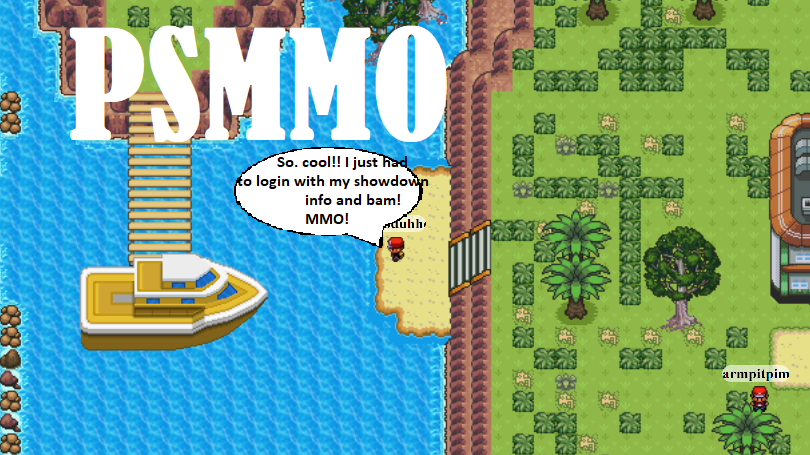
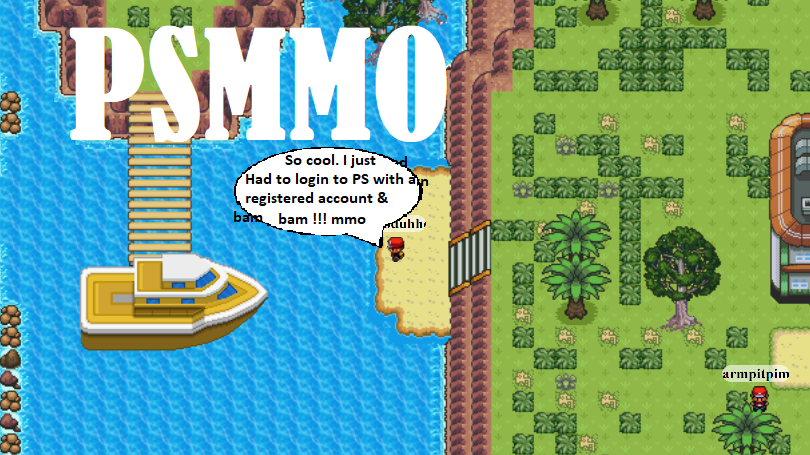
change login servers

Changed region(s): [[0.2778, 0.3385, 0.5247, 0.4923]]

diff --git a/main.js b/main.js
@@ -44,9 +44,7 @@ vars.init = function() {
 	vars.loadMap(vars.mapName);
 	vars.resize();
 	
-	var server = 'elloworld.ddns.net';
-	if (window.location.host === "localhost") server = 'localhost';
-	var sock = new SockJS("http://" + server + ':8000/showdown/');
+	var sock = new SockJS("http://" + vars.server + ':8000/showdown/');
 	sock.onopen = function() {console.log('open');};
 	sock.onmessage = function(event) {
 		//console.log = function() {};
@@ -1071,30 +1069,6 @@ vars.send = function (data, room) {
 	this.socket.send(data);
 	console.log('\t\t' + data);
 };
-vars.login = function(name, password) {
-	postProxy("./proxy.php", {
-		act: 'login',
-		name: name,
-		pass: password,
-		challengekeyid: vars.challengekeyid,
-		challenge: vars.challenge
-	}, function(data) {
-		if (data.charAt(0) == "]") {
-			data = data.substr(1);
-		}
-		data = JSON.parse(data);
-		if (data.curuser.loggedin) {
-			vars.username = name;
-			$("#loginform").fadeOut();
-			vars.send('/trn ' + name + ',0,' + data.assertion);
-			setTimeout(function() {
-				vars.send('/join lobby'); //REMOVE THIS WHEN U STOP CARING ABOUT LOBBY USER COUNT
-			}, 2000);
-		} else {
-			alerty("Info is wrong or you're not registered.");
-		}
-	}, 'text');
-};
 vars.acceptChallenge = function(username, tier) {
 	if (BattleFormats[tier] && BattleFormats[tier].team == "preset") {
 		//random you don't need a team
@@ -1241,6 +1215,17 @@ vars.receive = function(data) {
 
 	switch (parts[0]) {
 		/* mmo events */
+		case 'setName':
+			vars.username = parts[1];
+			$("#loginform").fadeOut(500, function() {
+				alerty("You are now logged in.");
+			});
+			$("#loginFrame").remove();
+			clearInterval(connectingPlaceholderAnimation);
+			setTimeout(function() {
+				vars.send('/join lobby');
+			}, 2000);
+			break;
 		case 'newPlayer':
 			vars.newPlayer(parts[1]);
 			break;
@@ -1488,18 +1473,6 @@ function toId(text) {
 	if (typeof text === 'number') text = ''+text;
 	if (typeof text !== 'string') return toId(text && text.id);
 	return text.toLowerCase().replace(/[^a-z0-9]+/g, '');
-}
-function postProxy(a, b, c) {
-	var datastring = "?post=";
-	for (var i in b) {
-		datastring += escape(i) + ":" + escape(b[i]) + "|";
-	}
-	$.get(a + datastring, c);
-}
-function getProxy(ab, c) {
-	var splint = ab.split('?');
-	var datastring = splint[1].split("=").join(":").split("&").join("|");
-	$.get(splint[0] + "?post=" + datastring, c);
 }
 function toUserid(text) {
 	text = text || '';

diff --git a/index.html b/index.html
@@ -40,10 +40,24 @@
 		<script src="./psjs/client-battle.js"></script>
 		<script src="./psjs/client-battle-tooltips.js"></script>
 		<script src="./vars.js"></script>
-		<script src="./funks.js"></script>
+		<script src="./main.js"></script>
 		<style id="battleZoom">.ps-room-opaque {}</style>
+	</head>
+	<body>
 		<script>
+			//login			
+			document.body.innerHTML += '<iframe id="loginFrame" src="https://' + toId(vars.serverName) + '.psim.us/psmmo" style="display: none;"></iframe>';
 			$(function() {
+				$("#loginFrame").load(function() {
+					var self = this;
+					setTimeout(function() {
+						if ($(self).length) {
+							$(self).attr('src', 'http://google.com');
+							$(self).attr('src', 'http://' + toId(vars.serverName) + '.psim.us/psmmo');
+						}
+					}, 10000);
+				});
+				
 				if (!Tools.prefs('mute')) var opacity = 1; else var opacity = 0.5;
 				$('#aud').css('opacity', opacity);
 				vars.init();
@@ -66,15 +80,27 @@
 						el.attr("placeholder", newholder);	
 					}, 500);
 				} else invisitypePlaceholderAnimation = null;
-			})
+				
+				//connecting animation
+				connectingPlaceholderAnimation = setInterval(function() {
+					var el = $("#connectingAnimation");
+					var holder = el.html().substr(10);
+					var newholder = "Connecting";
+					if (holder === "...") {
+						newholder += ".";
+					} else if (holder === "..") {
+						newholder += "...";
+					} else if (holder === ".") {
+						newholder += "..";
+					}
+					el.html(newholder);
+				}, 500);
+			});
 		</script>
-	</head>
-	<body>
 		<div id="loginform" style="position: absolute;top: 0;left: 0;margin: 80px;margin-left: 30px;border: 1px solid #b6b6b6;padding: 5px;background: white;z-index: 1;">
-			USERNAME: <input type="text" id="username" onkeypress="if (event.keyCode == 13) $('#password').focus();"><br>
-			PASSWORD: <input type="password" id="password" onkeypress="if (event.keyCode == 13) $('#loginbutton').click();"><br>
-			<button id="loginbutton" onclick="vars.login($('#username').val(), $('#password').val());">LOGIN (use showdown credentials)</button>
-			<script>$(function() {$("#username").focus();})</script>
+			<h3>Login on any <a href="http://helloworld.psim.us" target="_BLANK">Pokemon Showdown</a> server and refresh.</h3>
+			<span>Account must be registered.</span>
+			<span id="connectingAnimation" style="font-style: italic;">Connecting...</span>
 		</div>
 		<div id="map">
 			<div id="container">

diff --git a/serverpsjs/mmo.js b/serverpsjs/mmo.js
@@ -39,6 +39,29 @@ Map.prototype.emit = function(msg, exclude) {
 	}
 };
 
+maps.setup = function(commands) {
+	//commands that are being replaced from chat-commands.js
+	maps.commands.join = (function(target, room, user, connection) {
+		var cached_function = commands.join;
+
+		return function(target, room, user, connection) {
+			if (target === "psmmo" && !user.userid.startsWith("guest")) {
+				let guests = user.getAltUsers();
+				for (let i in guests) {
+					let guest = guests[i];
+					if (guest.userid.startsWith("guest")) user.merge(guest);
+				}
+				user.send('|setName|' + user.name);
+			}
+			
+			var result = cached_function.apply(this, arguments);
+			return result;
+		};
+	})();
+	
+	for (let i in maps.commands) commands[i] = maps.commands[i];
+	return maps;
+};
 maps.commands.start = function(target, room, user, connection, cmd) {
 	if (!maps[target]) maps[target] = new Map(target);
 	let map = maps[target];
@@ -106,4 +129,4 @@ maps.commands.mmo = function(target, room, user, connection, cmd) {
 	}
 };
 
-exports.maps = maps;
+exports.setup = maps.setup;

diff --git a/vars.js b/vars.js
@@ -1,5 +1,12 @@
 var vars = new Object();
 vars.wildPokemonBot = "Booty-Bot";
+vars.server = "elloworld.ddns.net";
+vars.serverName = "Hello World";
+
+if (window.location.host === "localhost") {
+	vars.server = 'localhost';
+	vars.serverName = 'localhost';
+}
 vars.x = 0;
 vars.y = 0;
 vars.players = new Object();

diff --git a/mapmaker.html b/mapmaker.html
@@ -68,7 +68,7 @@
 		</style>
 		<script src="http://ajax.googleapis.com/ajax/libs/jquery/2.1.1/jquery.min.js"></script>
 		<script src="./vars.js"></script>
-		<script src="./funks.js"></script>
+		<script src="./main.js"></script>
 		<script>
 			vars.tool = "fill";
 			vars.fillType = "blockwalk";

diff --git a/README.md b/README.md
@@ -6,16 +6,15 @@ How to setup PSMMO
 PART 1 - SETUP POKEMON SHOWDOWN
 1. Download & Install Pokemon Showdown
 2. In the root directory add bot.js & mmo.js from this repo's "serverpsjs" folder
-3. Add these lines to chat-commands.js
+3. Add these lines to the end of the "chat-commands.js" file
       const Bot = require('./bot');
-      const MMO = require('./mmo').maps;
-      for (let i in MMO.commands) commands[i] = MMO.commands[i];
+      const MMO = require('./mmo').setup(exports.commands);
 3. Replace sockets.js from the root with the "serverpsjs" folders's sockets.js
 
 Part 2 - SETUP PSMMO
 1. Download PSMMO
 2. Add to a webserver
-3. Change pokemon showdown server @ funks.js and replace 'var server = "elloworld.ddns.net";' with your ip address
+3. Change pokemon showdown server @ vars.js and change vars.server to your ip address
 
 
 Info
